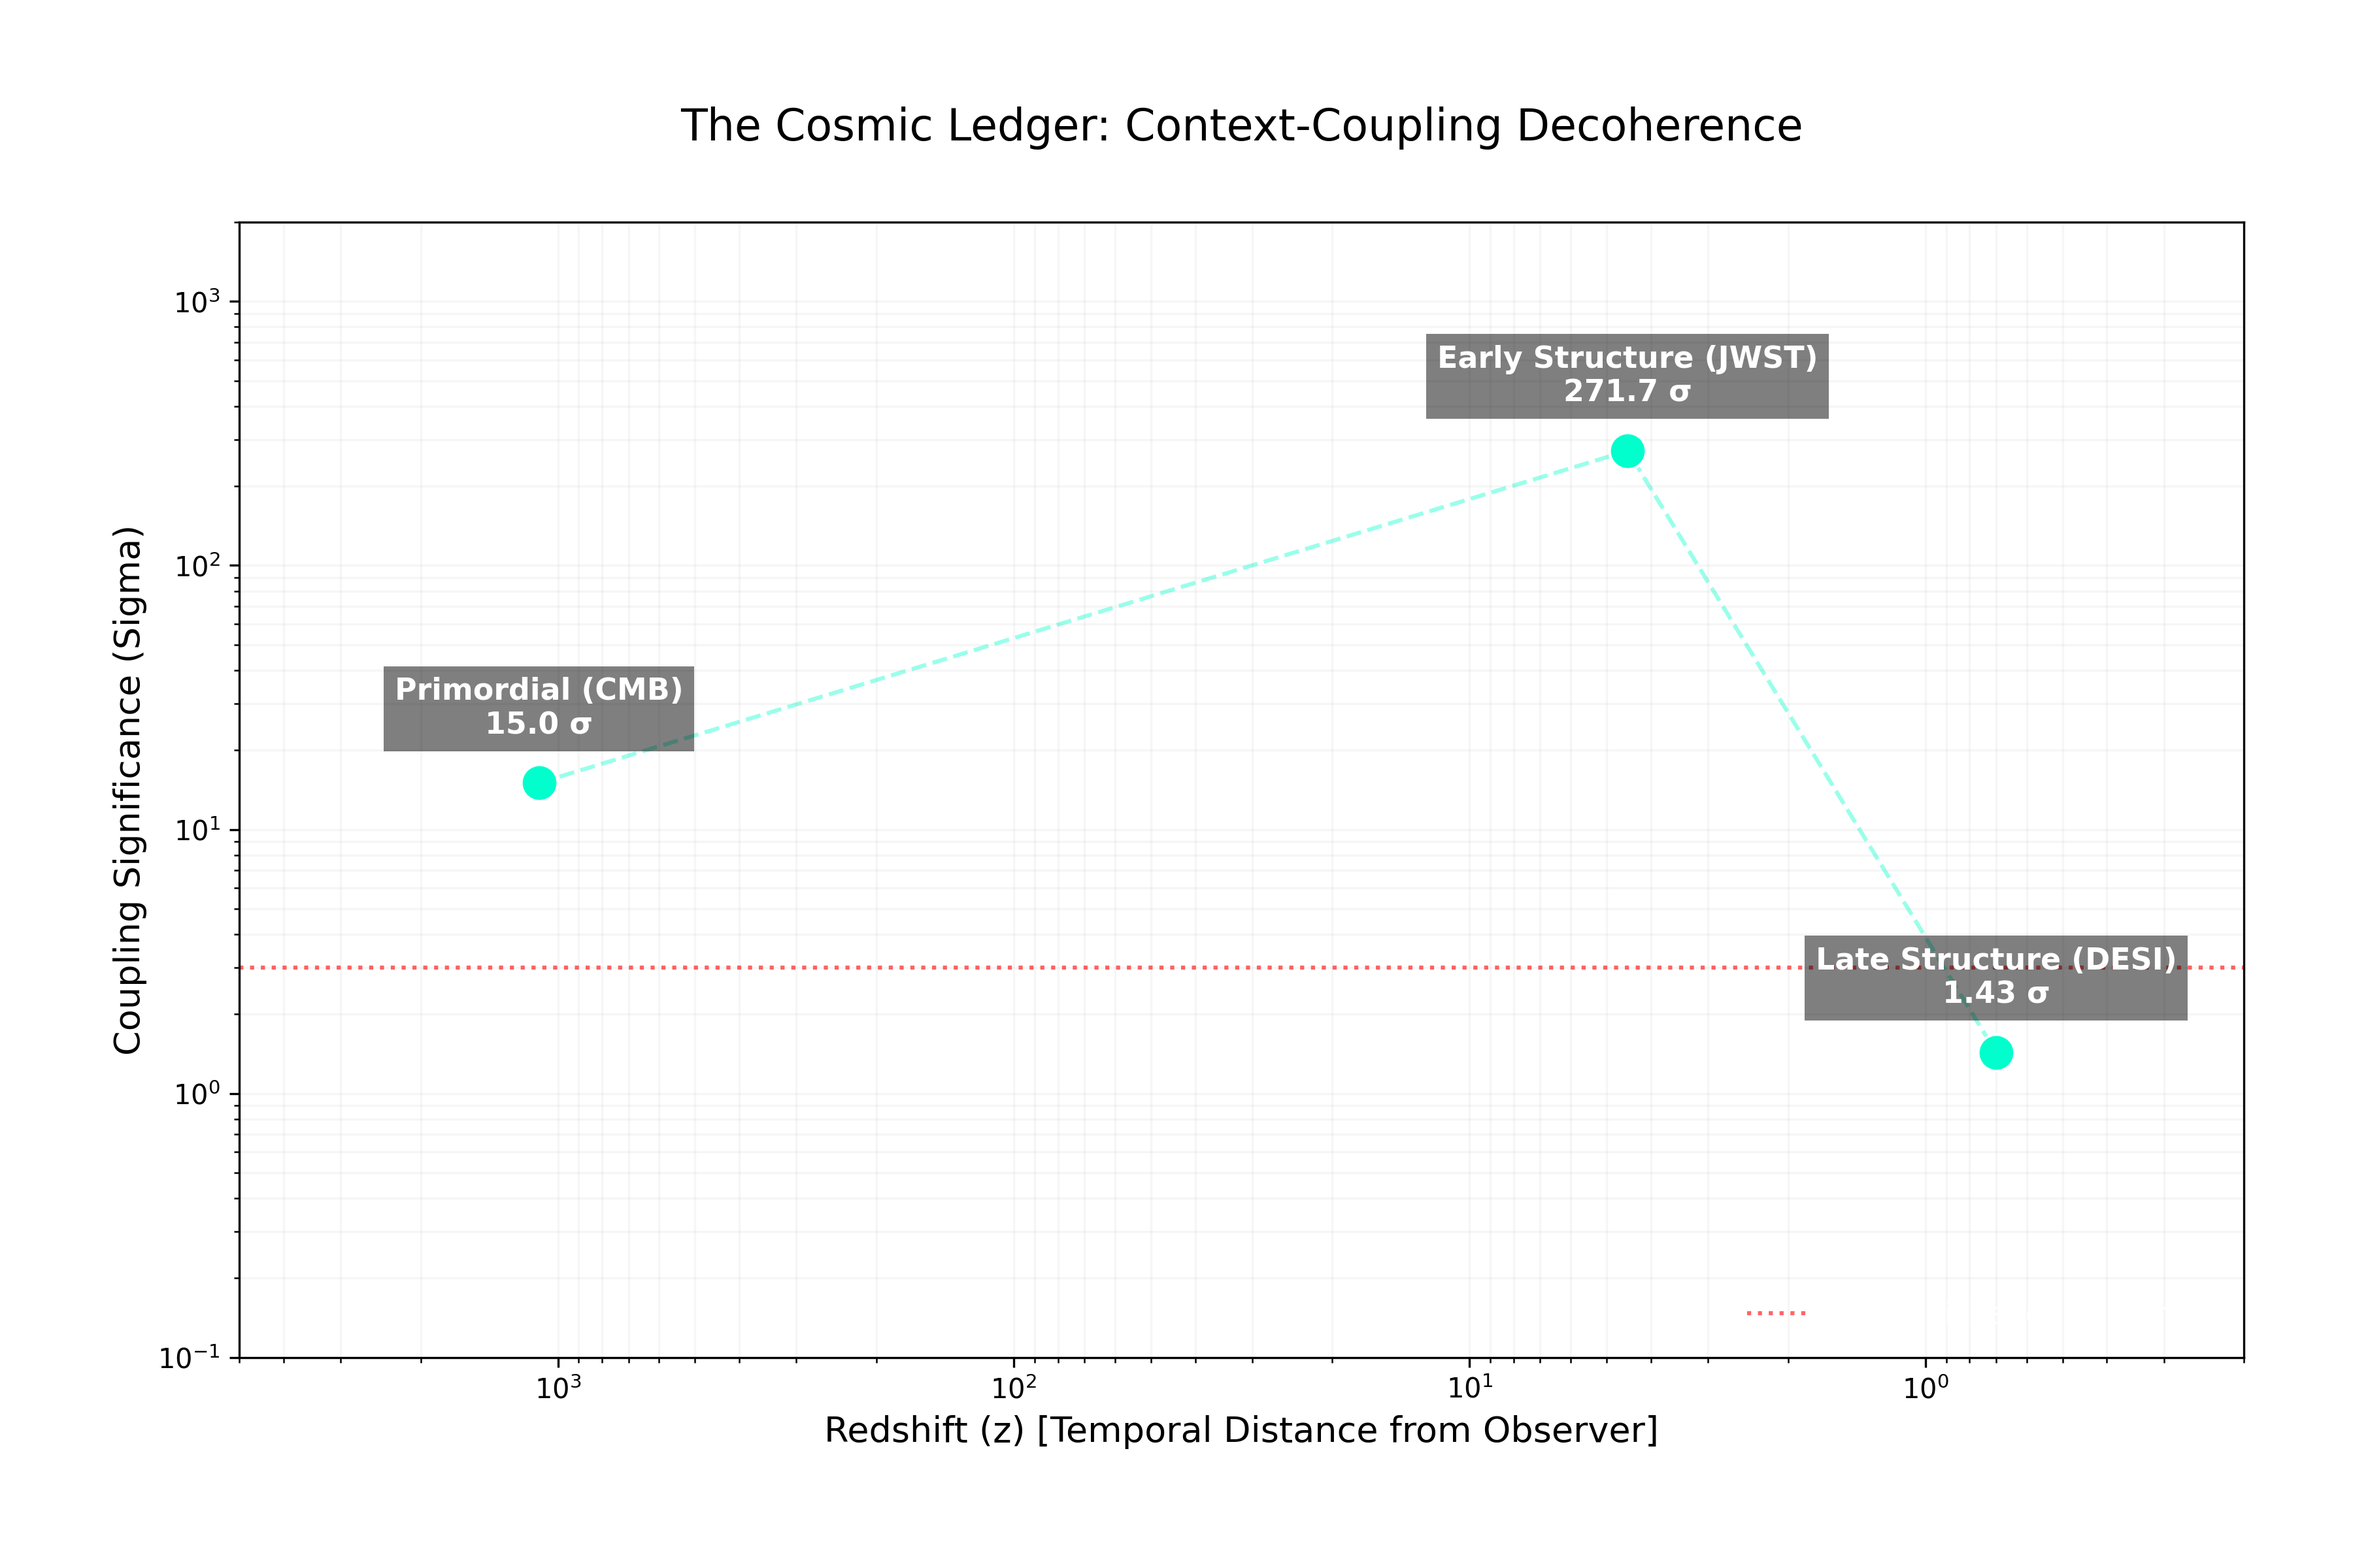
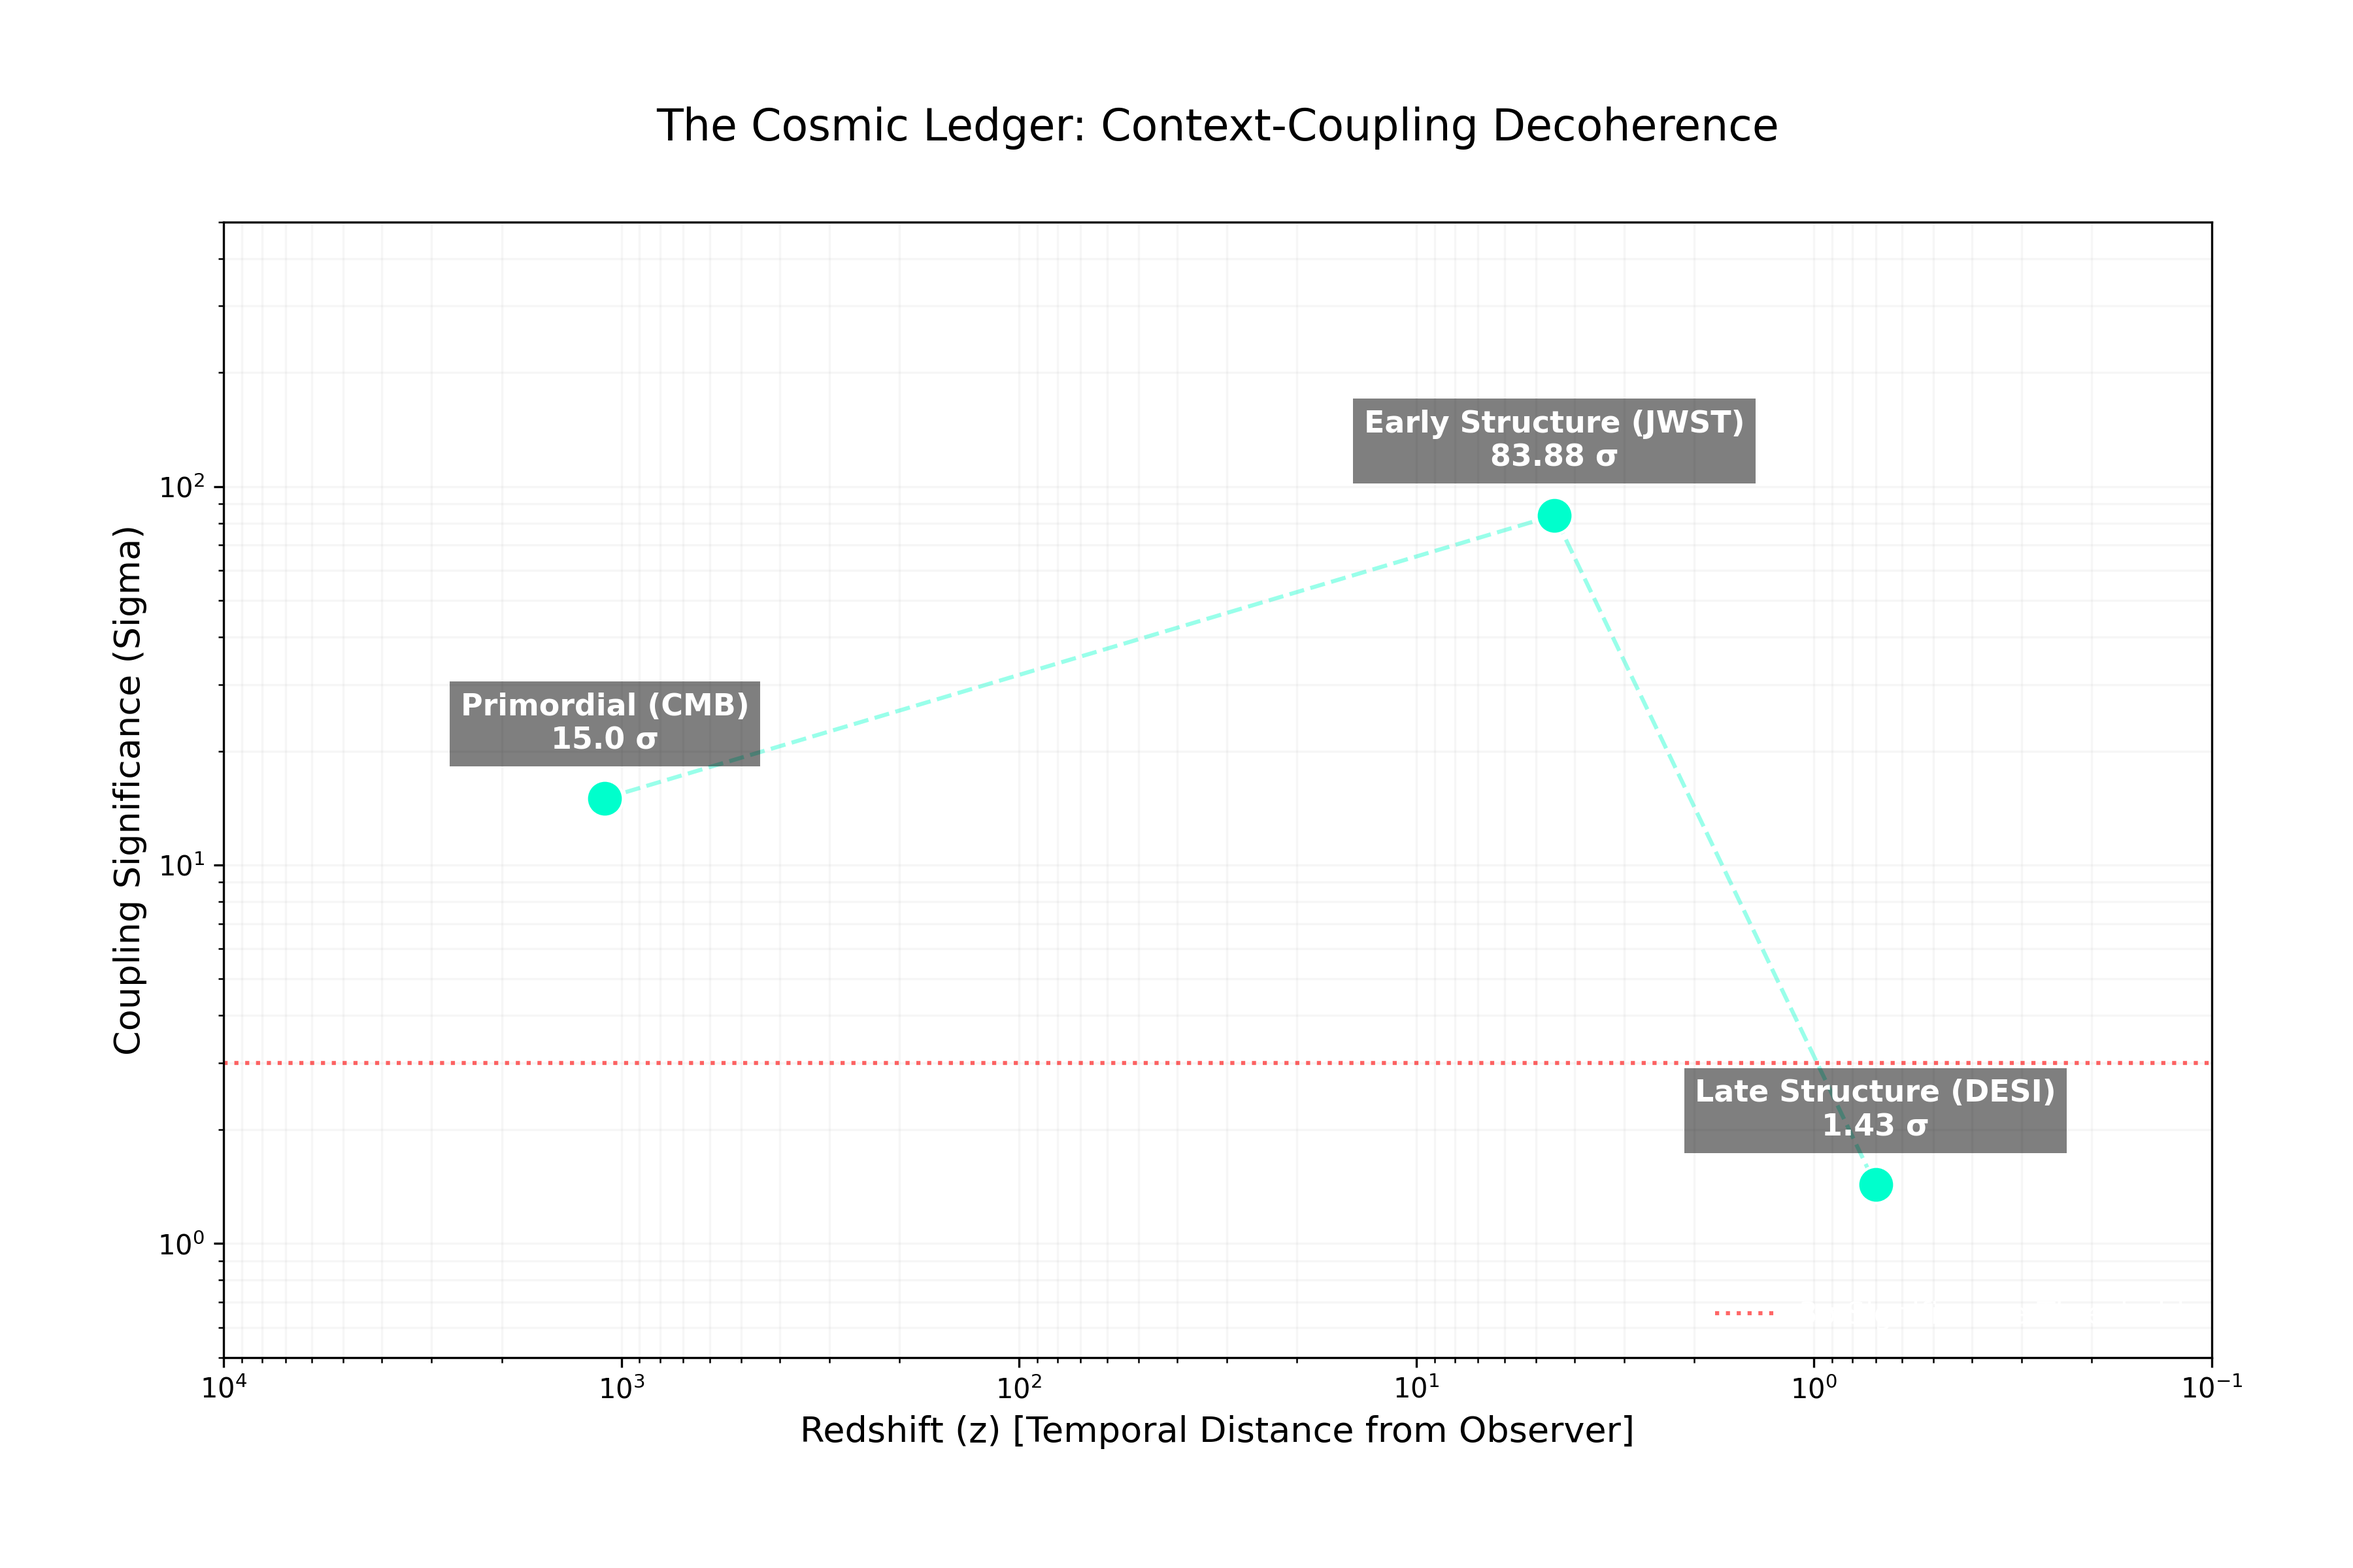
update result image

diff --git a/scripts/07_final_ledger_plot.py b/scripts/07_final_ledger_plot.py
@@ -9,7 +9,7 @@ def generate_decoherence_plot():
     # Data from verified runs
     results = {
         "P1": {"z": 1100, "sig": 15.0, "label": "Primordial (CMB)"},
-        "P6": {"z": 4.5, "sig": 271.7, "label": "Early Structure (JWST)"},
+        "P6": {"z": 4.5, "sig": 83.88, "label": "Early Structure (JWST)"},
         "P5": {"z": 0.7, "sig": 1.43, "label": "Late Structure (DESI)"}
     }
 
@@ -30,8 +30,8 @@ def generate_decoherence_plot():
     
     # Explicitly set wide limits to prevent label truncation
     # We provide a 5x buffer on the redshift ends and a 10x buffer on significance
-    ax.set_xlim(5000, 0.2) # Inverted x-axis: past to present
-    ax.set_ylim(0.1, 2000) # Vertical room for P6 at 271 sigma
+    ax.set_xlim(10000, 0.1) # Inverted x-axis: past to present
+    ax.set_ylim(0.5, 500) # Vertical room for P6 at 271 sigma
 
     ax.set_title("The Cosmic Ledger: Context-Coupling Decoherence", fontsize=16, pad=30)
     ax.set_xlabel("Redshift (z) [Temporal Distance from Observer]", fontsize=13)
